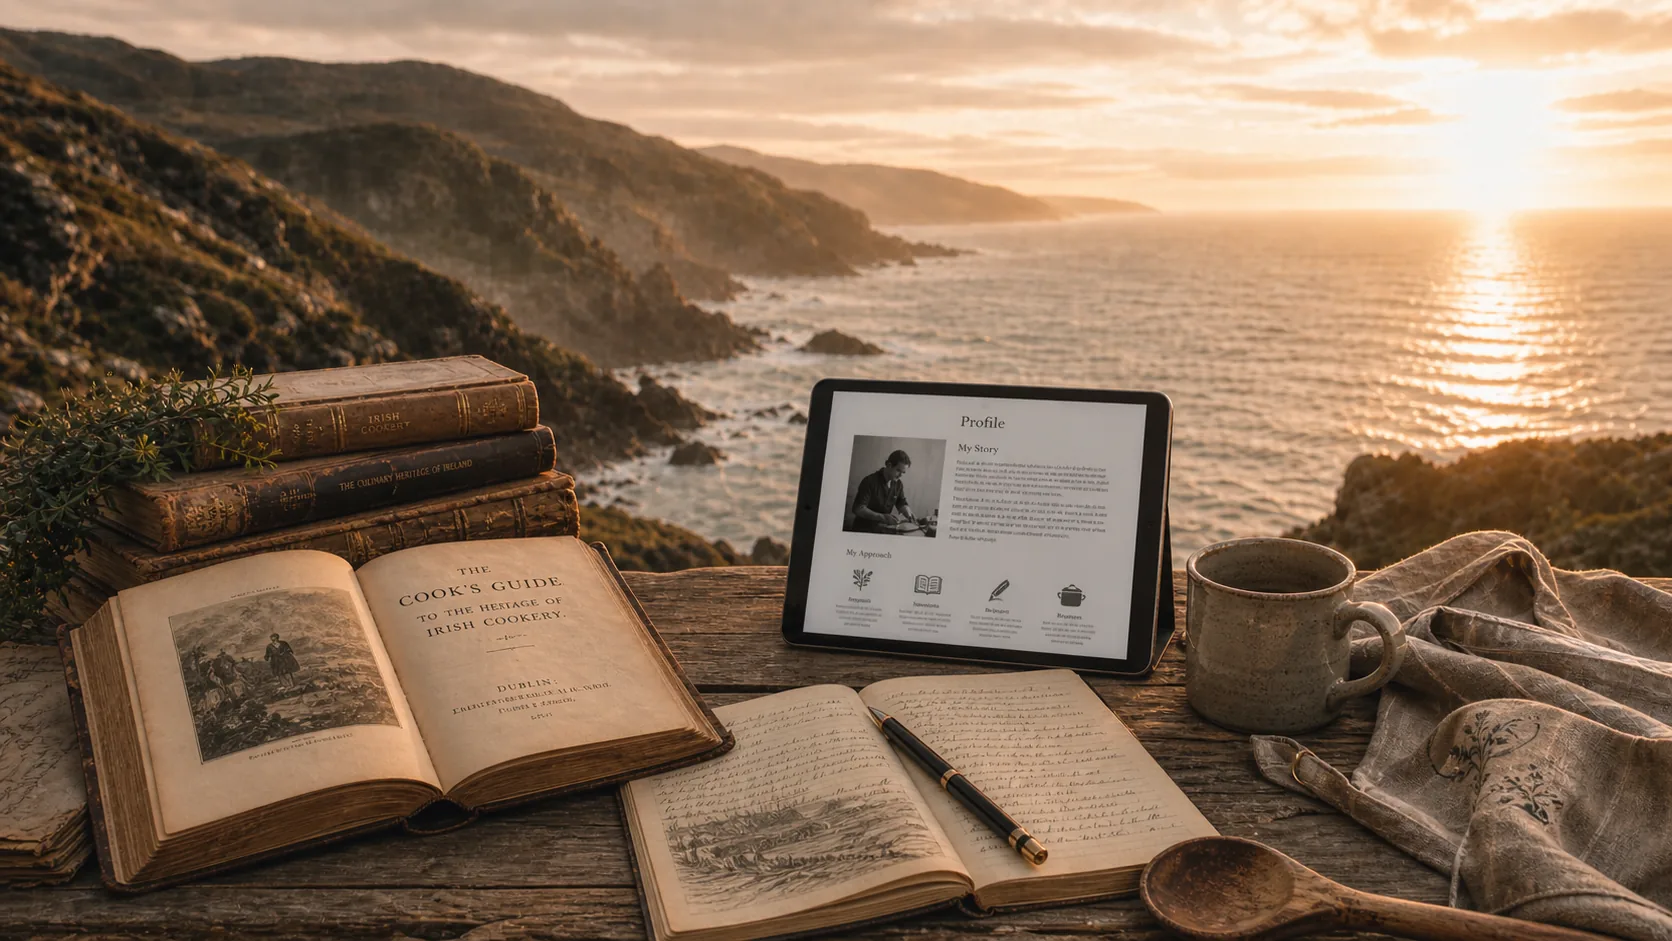
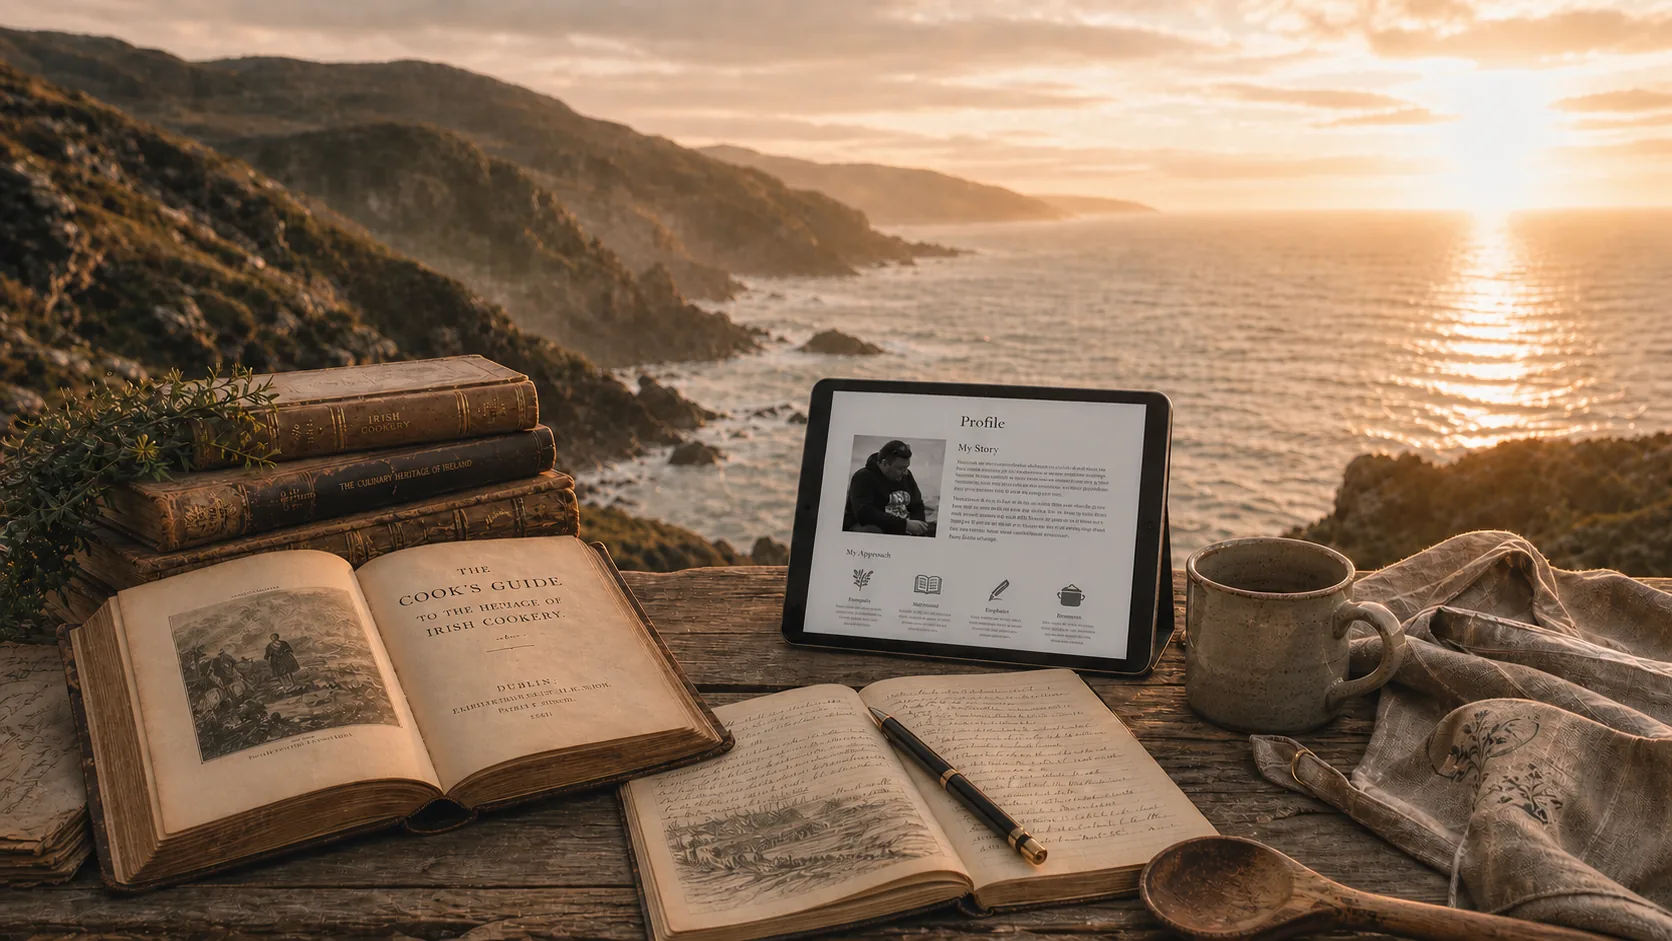
v2.5.135 - Update author hero background image
Owner replaced hero-profile.png; regenerated hero-profile.webp from it so the
<picture> webp source matches (webp is served first to modern browsers).

diff --git a/templates/base.html b/templates/base.html
@@ -399,7 +399,7 @@
             </div>
             <div class="footer-legal">
                 <span>&copy; 2026 Bearcave Limited. All rights reserved.</span>
-                <span class="footer-version">v2.5.134</span>
+                <span class="footer-version">v2.5.135</span>
             </div>
         </div>
     </div>

diff --git a/config/release_journal.py b/config/release_journal.py
@@ -1,5 +1,19 @@
 RELEASE_JOURNAL = [
     {
+        "version": "2.5.135",
+        "date": "2026-07-06",
+        "commit": "pending",
+        "title": "Updated author hero background image",
+        "section": "UI",
+        "summary": (
+            "Owner supplied a new hero-profile.png (coastal sunset with the "
+            "Irish cookery books and tablet). Regenerated hero-profile.webp "
+            "from the new PNG so the <picture> webp source matches (the hero "
+            "serves the webp first to modern browsers, so a stale webp would "
+            "silently keep showing the old image)."
+        ),
+    },
+    {
         "version": "2.5.134",
         "date": "2026-07-06",
         "commit": "pending",